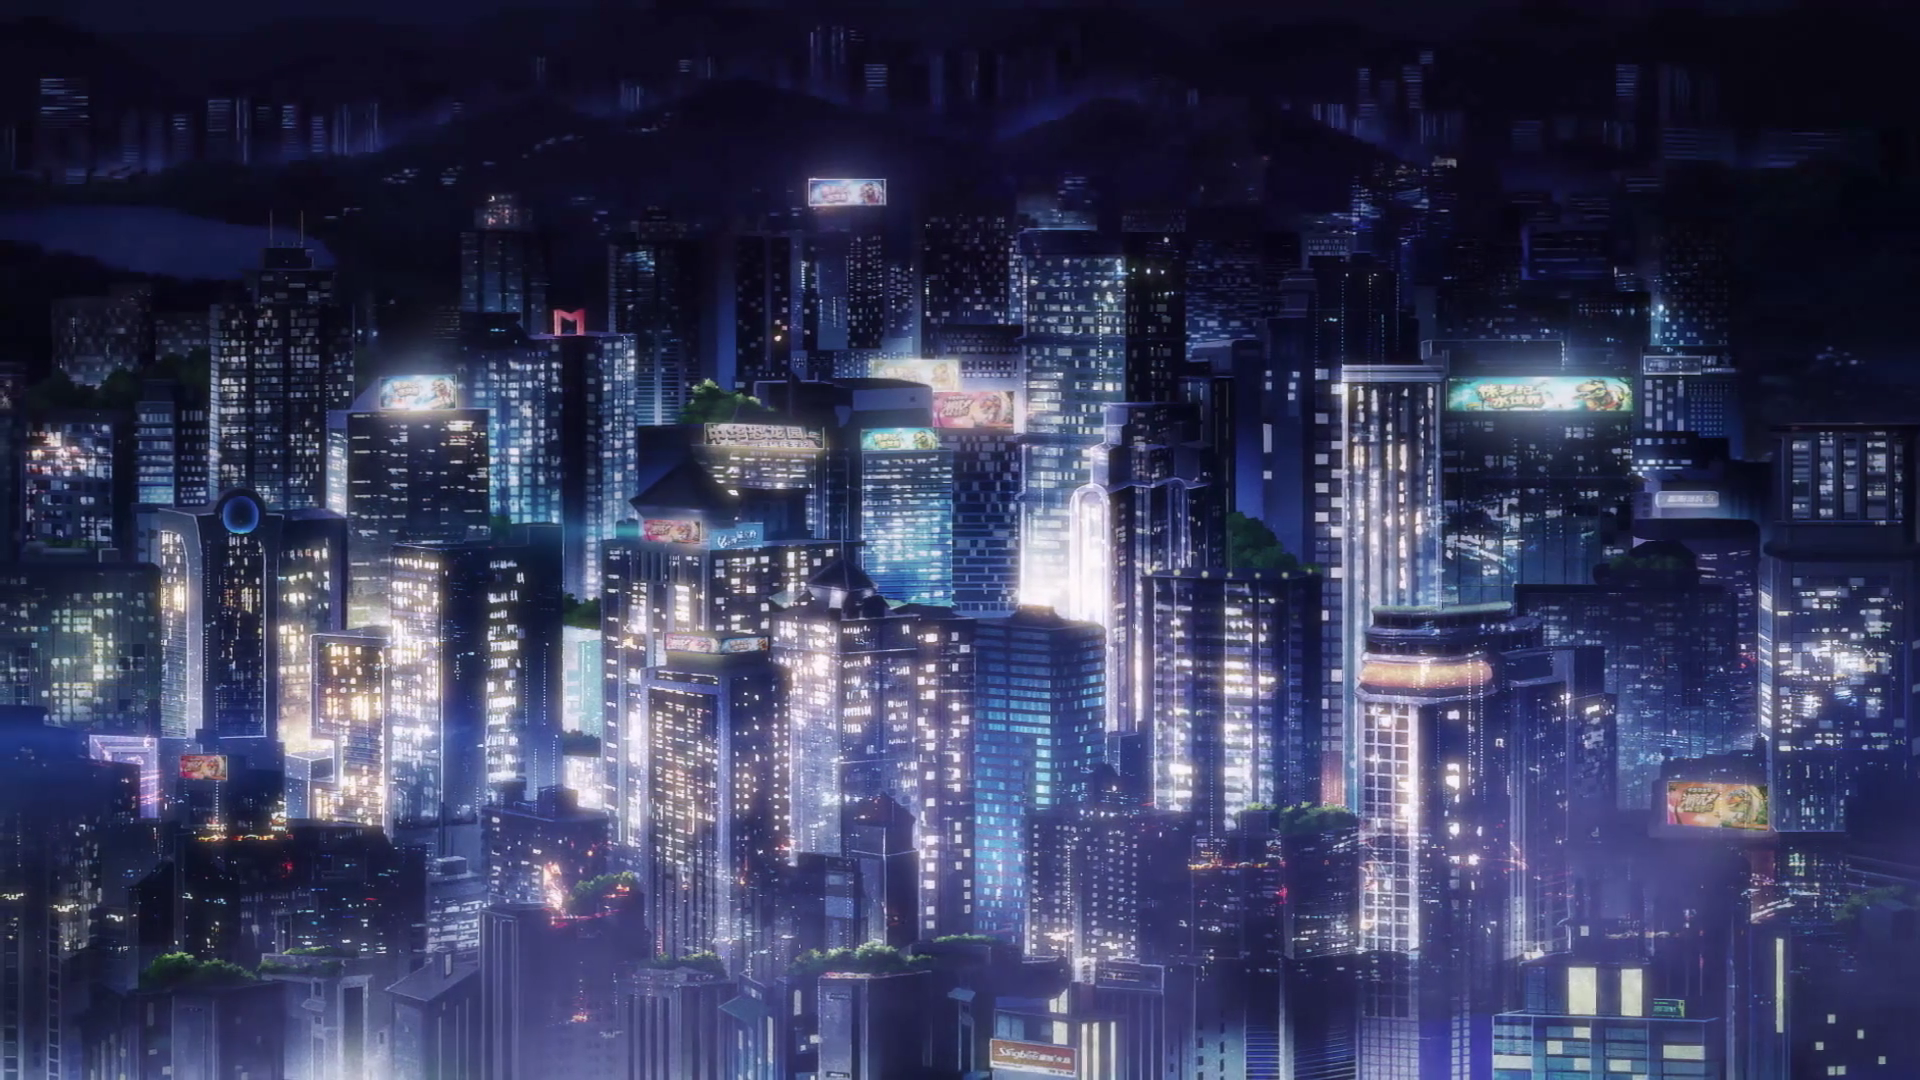
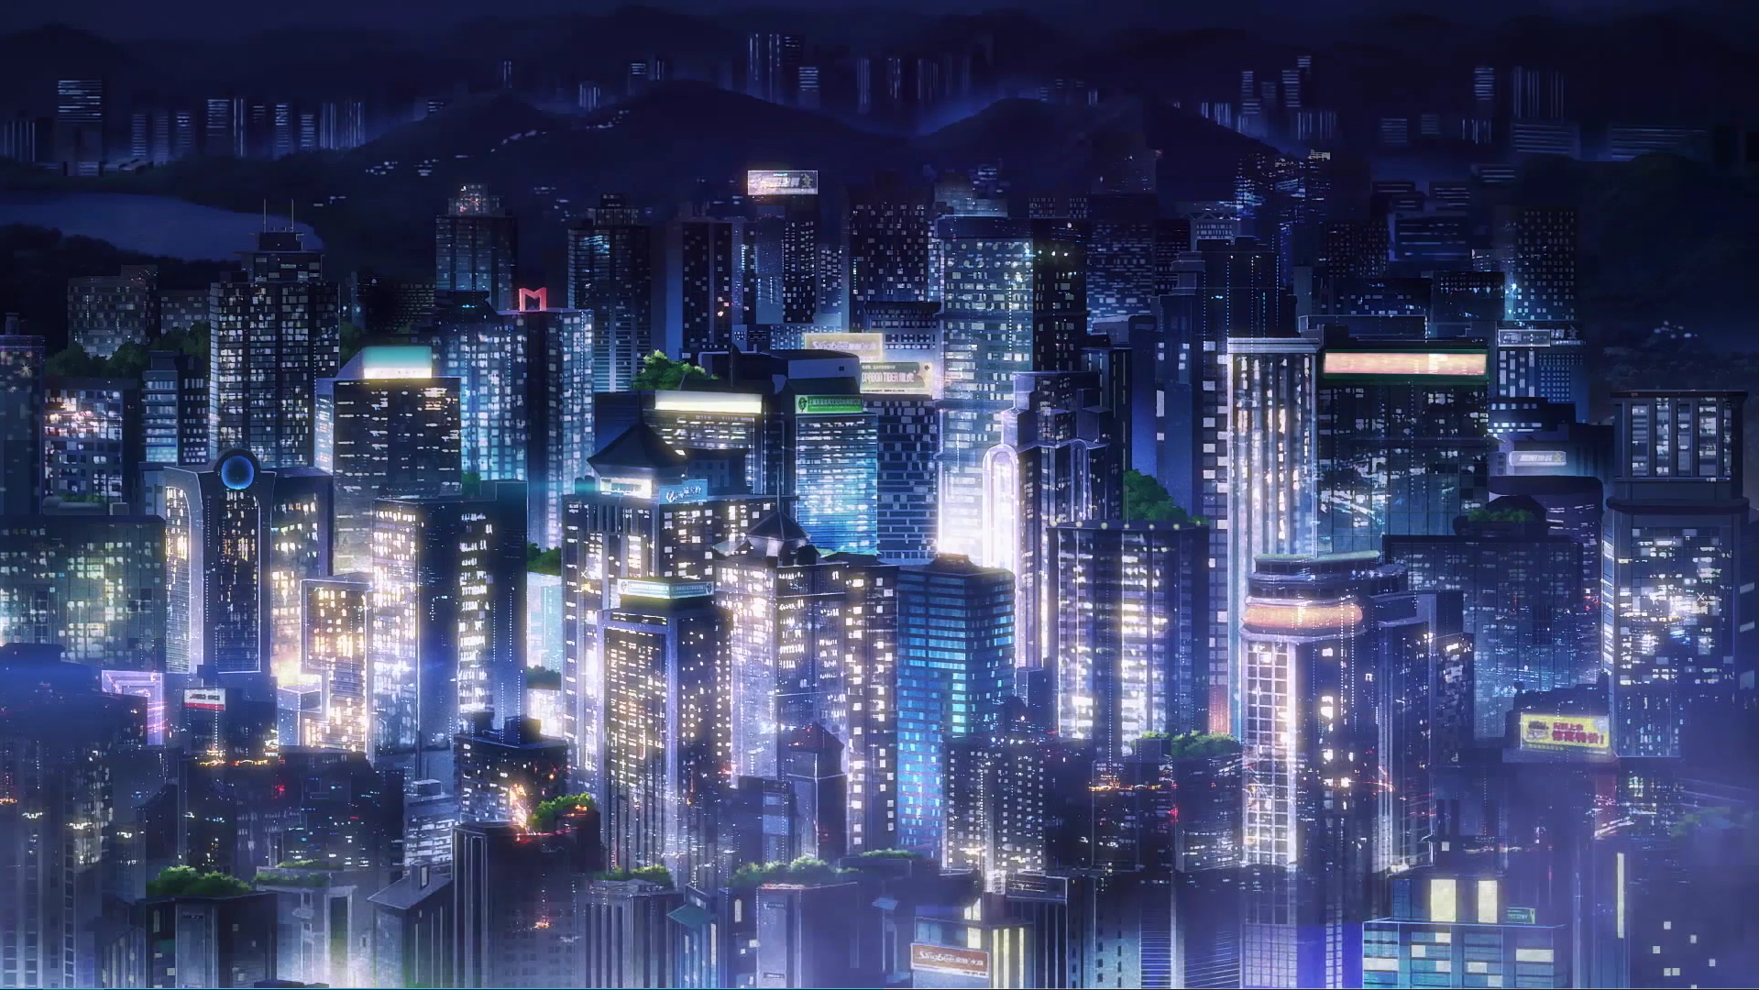
Add files via upload

diff --git a/bg-layer/bg-img.js b/bg-layer/bg-img.js
@@ -3,22 +3,41 @@
 // 背景图片随时间变化
 {
     let thisTimeHour = new Date().toTimeString().slice( 0, 2 ).split( ':' ).join( '' );
-    let bgImg = document.querySelector( '#bg-img' );
+    // let bgImg = document.querySelector( '#bg-img' );
     let siteInfo = document.querySelector( '#site-info' );
     let footer = document.querySelector( '#page-footer' );
 
     if ( thisTimeHour < 12 ) {
-        document.documentElement.style.setProperty( '--bg-layer-img', `url( '../image/background/urban-daytime.png' )` );
         // bgImg.style.backgroundImage = `url( './image/background/urban-daytime.png' )`;
         siteInfo.style.color = '#000000';
         // footer.style.backgroundImage = `url( './image/background/urban-daytime.png' )`;
         footer.style.color = '#000000';
     }
     else {
-        document.documentElement.style.setProperty( '--bg-layer-img', `url( '../image/background/urban-sunset.png' )` );
         // bgImg.style.backgroundImage = `url( './image/background/urban-sunset.png' )`;
         siteInfo.style.color = '#ffffff';
         // footer.style.backgroundImage = `url( './image/background/urban-sunset.png' )`;
         footer.style.color = '#ffffff';
     }
+    function bgImgChange( time ) {
+        // if ( time === 5 || time === 6 || time === 7 ) {
+        //     document.documentElement.style.setProperty( '--bg-layer-img', `url( '../image/background/urban-sunset.png' )` );
+        // }
+        if ( time === 6 || time === 7 || time === 8 || time === 9 || time === 10 || time === 11 ) {
+            document.documentElement.style.setProperty( '--bg-layer-img', `url( '../image/background/urban-daytime.png' )` );
+        }
+        else if (  time === 12 || time === 13 || time === 14 ) {
+            document.documentElement.style.setProperty( '--bg-layer-img', `url( '../image/background/urban-sunset_3.png' )` );
+        }
+        else if ( time === 15 || time === 16 || time === 17 || time === 18 ) {
+            document.documentElement.style.setProperty( '--bg-layer-img', `url( '../image/background/urban-sky.png' )` );
+        }
+        else if ( time === 19 || time === 20 || time === 21 ) {
+            document.documentElement.style.setProperty( '--bg-layer-img', `url( '../image/background/urban-night_3.png' )` );
+        }
+        else{
+            document.documentElement.style.setProperty( '--bg-layer-img', `url( '../image/background/urban-night_2.png' )` );
+        }
+    }
+    bgImgChange( thisTimeHour );
 }

diff --git a/index.html b/index.html
@@ -536,31 +536,31 @@
                 <i class="icon-shuffling-banner-fill iconfont" title="切换背景图片"></i>
                 <div class="image-select">
                     <div class="img-item">
-                        <img src="./image/background/urban-daytime.png" alt="bg-img">
+                        <img src="./image/background/urban-rain.png" alt="bg-img">
+                    </div>
+                    <div class="img-item">
+                        <img src="./image/background/urban-daytime_2.png" alt="bg-img">
+                    </div>
+                    <div class="img-item">
+                        <img src="./image/background/urban-daytime_3.png" alt="bg-img">
+                    </div>
+                    <div class="img-item">
+                        <img src="./image/background/urban-rain_2.png" alt="bg-img">
                     </div>
                     <div class="img-item">
                         <img src="./image/background/urban-sunset.png" alt="bg-img">
                     </div>
                     <div class="img-item">
+                        <img src="./image/background/urban-sunset_2.png" alt="bg-img">
+                    </div>
+                    <div class="img-item">
                         <img src="./image/background/urban-night.png" alt="bg-img">
-                    </div>
-                    <div class="img-item">
-                        <img src="./image/background/urban-night_2.png" alt="bg-img">
-                    </div>
-                    <div class="img-item">
-                        <img src="./image/background/urban-night_3.png" alt="bg-img">
                     </div>
                     <div class="img-item">
                         <img src="./image/background/urban-night_4.png" alt="bg-img">
                     </div>
                     <div class="img-item">
-                        <img src="./image/background/urban-sky.png" alt="bg-img">
-                    </div>
-                    <div class="img-item">
-                        <img src="./image/background/sky.png" alt="bg-img">
-                    </div>
-                    <div class="img-item">
-                        <img src="./image/background/sky_2.png" alt="bg-img">
+                        <img src="./image/background/urban-night_5.png" alt="bg-img">
                     </div>
                 </div>
             </div>

diff --git a/elevator/elevator.js b/elevator/elevator.js
@@ -82,7 +82,7 @@
                 page_header.style.backgroundColor = 'rgba( 0, 0, 0, 0.25 )';
                 menu_content.style.backgroundColor = '#121212';
                 menu_content.style.color = '#ffffff';
-                page_main.style.backgroundColor = 'rgba( 0, 0, 0, 0.5 )';
+                page_main.style.backgroundColor = 'rgba( 0, 0, 0, 0.25 )';
                 site_data.style.color = '#ffffff';
                 page_footer.style.color = '#121212';
                 multipleToggle( card_items );
@@ -93,7 +93,7 @@
                 page_header.style.backgroundColor = 'transparent';
                 menu_content.style.backgroundColor = '#ffffff';
                 menu_content.style.color = '#4c4948';
-                page_main.style.backgroundColor = 'rgba( 255, 255, 255, 0.5 )';
+                page_main.style.backgroundColor = 'rgba( 255, 255, 255, 0.25 )';
                 site_data.style.color = '#4c4948';
                 page_footer.style.color = '#ffffff';
                 multipleToggle( card_items );

diff --git a/page/page.css b/page/page.css
@@ -379,7 +379,7 @@ header #down-more i {
     display: flex;
     flex-wrap: var( --page-main-wrap );
     justify-content: space-around;
-    background-color: rgba( 255, 255, 255, 0.5 );
+    background-color: rgba( 255, 255, 255, 0.25 );
     transition: background-color 0.5s ease;
 }
 
